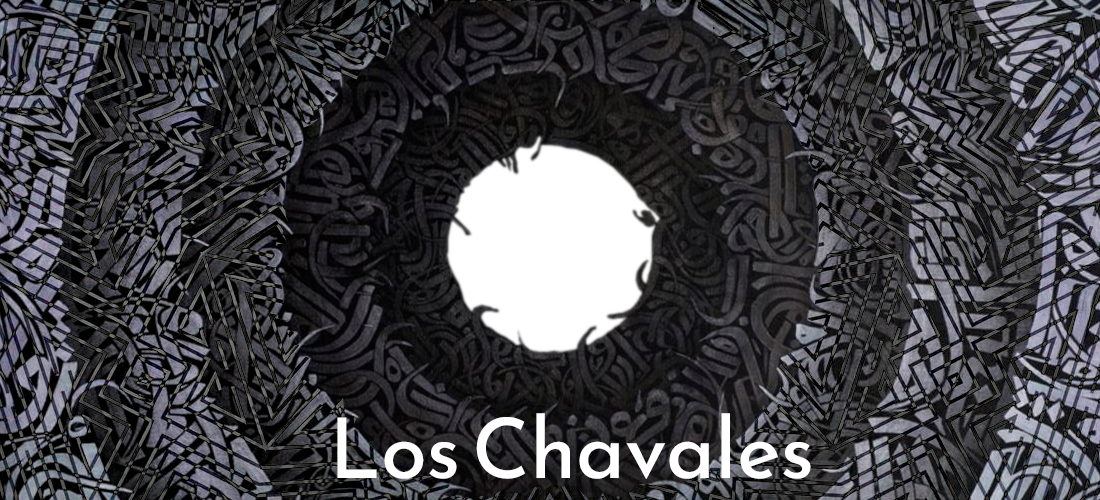
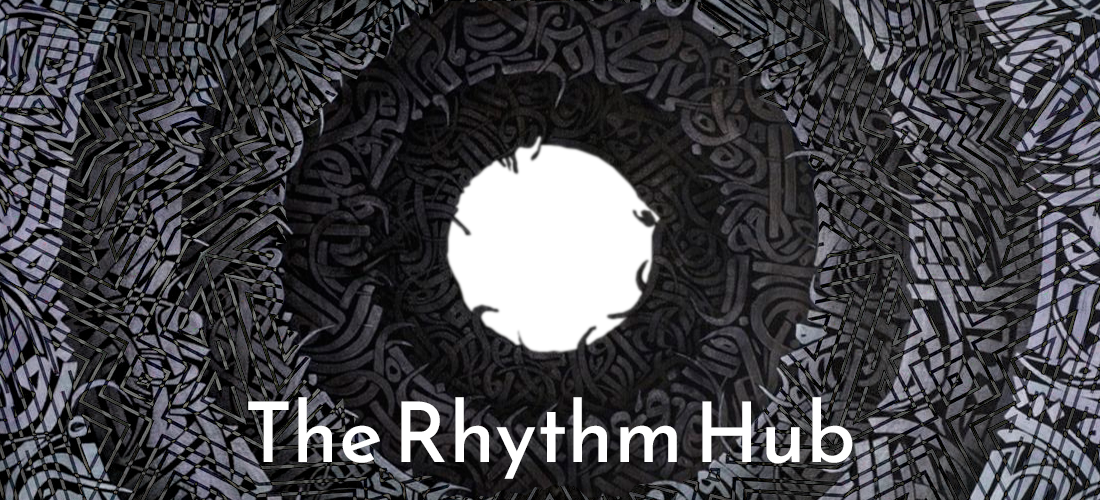
Changed every name of every file to TRH and added more constants

Changed region(s): [[0.2164, 0.78, 0.7727, 0.96]]

diff --git a/TRHDuroCommands.py b/TRHDuroCommands.py
@@ -1,5 +1,6 @@
 from discord.app_commands import CommandTree
 from discord import Interaction, Attachment, File
+import constants as c
 import os
 import random
 
@@ -14,20 +15,18 @@ class LCDuroCommands(CommandTree):
 
         @self.command(name="durosave")
         async def durosave(interaction: Interaction, imagen: Attachment):
-            path = os.path.join("images", "duro_images")
-            if not os.path.exists(path):
-                os.mkdir(path)
+            if not os.path.exists(c.DURO_IMG_PATH):
+                os.mkdir(c.DURO_IMG_PATH)
 
-            await imagen.save(os.path.join(path, imagen.filename))
+            await imagen.save(os.path.join(c.DURO_IMG_PATH, imagen.filename))
             await interaction.response.send_message("Imagen dura guardada.", ephemeral=True)
 
         @self.command(name="gatosave")
         async def gatosave(interaction: Interaction, imagen: Attachment):
-            path = os.path.join("images", "gato_images")
-            if not os.path.exists(path):
-                os.mkdir(path)
+            if not os.path.exists(c.GATO_IMG_PATH):
+                os.mkdir(c.GATO_IMG_PATH)
 
-            await imagen.save(os.path.join(path, imagen.filename))
+            await imagen.save(os.path.join(c.GATO_IMG_PATH, imagen.filename))
             await interaction.response.send_message("Imagen MEOW guardada.", ephemeral=True)
 
         @self.command(name="duro")
@@ -50,10 +49,9 @@ class LCDuroCommands(CommandTree):
 
         @self.command(name="borzoisave")
         async def borzoisave(interaction: Interaction, imagen: Attachment):
-            path = os.path.join("images", "borzoi_images")
-            if not os.path.exists(path):
-                os.mkdir(path)
-            await imagen.save(path, imagen.filename)
+            if not os.path.exists(c.BORZOI_IMG_PATH):
+                os.mkdir(c.BORZOI_IMG_PATH)
+            await imagen.save(c.BORZOI_IMG_PATH, imagen.filename)
             await interaction.response.send_message("Imagen de borzoi guardada.", ephemeral=True)
 
         @self.command(name="borzoi")
@@ -67,10 +65,9 @@ class LCDuroCommands(CommandTree):
 
         @self.command(name="lmaosave")
         async def lmaosave(interaction: Interaction, imagen: Attachment):
-            path = os.path.join("images", "lmao_images")
-            if not os.path.exists(path):
-                os.mkdir(path)
-            await imagen.save(path, imagen.filename)
+            if not os.path.exists(c.LMAO_IMG_PATH):
+                os.mkdir(c.LMAO_IMG_PATH)
+            await imagen.save(c.LMAO_IMG_PATH, imagen.filename)
             await interaction.response.send_message("Imagen de lmao guardada.", ephemeral=True)
 
         @self.command(name="lmao")
@@ -82,9 +79,8 @@ class LCDuroCommands(CommandTree):
             picture = self.cargar_lmao_images(images)
             await interaction.response.send_message(file=picture)
 
-    def obtener_imagenes(self, image_type):
-        path = os.path.join("images", image_type + "_images")
-        images = os.listdir(path)
+    def obtener_imagenes(self, image_path):
+        images = os.listdir(image_path)
         images = [image for image in images if image not in self.duro_images]
         return images
 

diff --git a/TRHBot.py b/TRHBot.py
@@ -3,8 +3,8 @@ import discord
 from card_image_logic import create_welcome_card
 from io import BytesIO
 import wavelink
-from LCMusicEvents import LCMusicEvents
-from LCCommands import LCCommands
+from TRHMusicEvents import LCMusicEvents
+from TRH import LCCommands
 
 
 class LCBot(LCMusicEvents, discord.Client):
@@ -17,7 +17,7 @@ class LCBot(LCMusicEvents, discord.Client):
         try:
             self.logger.info("Starting lavalink...")
             await self.start_lavalink()
-            node: wavelink.Node = wavelink.Node(uri="http://localhost:2333", password="youshallnotpass")
+            node: wavelink.Node = wavelink.Node(uri=c.WAVELINK_URI, password=c.WAVELINK_PASS)
             await wavelink.NodePool.connect(client=self, nodes=[node])
             self.logger.info("Syncing commands...")
             tree = LCCommands(self)
@@ -36,7 +36,7 @@ class LCBot(LCMusicEvents, discord.Client):
         card = create_welcome_card(user, avatar_data)
 
         file = discord.File(card, filename="welcome_card.png")
-        msg = f"Hello {member} welcome to Los Chavales!\n\nHola {member} bienvenido a Los Chavales!"
+        msg = f"Hello {member} welcome to {c.SERVER_NAME}\n\nHola {member} bienvenido a {c.SERVER_NAME}!"
 
         await channel.send(msg, file=file)
 

diff --git a/discord_embeds.py b/discord_embeds.py
@@ -10,8 +10,8 @@ def help_embed(choice):
     elif choice == "music":
         description = ("**MUSIC COMMANDS**\n"
                        "**/queue** - _Shows the current queue._\n"
-                       "**/bump** - _Bumps a song to the top of the queue._\n"
-                       "**/play** - _Plays a song._\n"
+                       "**/bump** - _Bumps a song to the top of the queue (currently unsupported)_\n"
+                       "**/play** - _Plays a song. (spotify playlist currently unsupported)_\n"
                        "**/skip** - _Skips the current song._\n"
                        "**/stop** - _Stops playback._\n"
                        "**/connect** - _Connects to a voicechat._\n"

diff --git a/constants.py b/constants.py
@@ -12,3 +12,10 @@ WELCOME_CHANNEL_ID = 1113466074797703198
 YOUTUBE_CHANNEL_ID = "UCvH7CJqcP5mW411eAE8KqZQ"
 # YOUTUBE_FEED_CHANNEL_ID = 1121936232247742556
 YOUTUBE_FEED_CHANNEL_ID = 851840942675722303
+WAVELINK_URI = os.getenv("WAVELINK_URI")
+WAVELINK_PASS = os.getenv("WAVELINK_PASS")
+SERVER_NAME = "The Rhythm Hub"
+DURO_IMG_PATH = os.path.join("images", "duro_images")
+GATO_IMG_PATH = os.path.join("images", "gato_images")
+BORZOI_IMG_PATH = os.path.join("images", "borzoi_images")
+LMAO_IMG_PATH = os.path.join("images", "lmao_images")

diff --git a/TRH.py b/TRH.py
@@ -1,6 +1,6 @@
 from discord.app_commands import CommandTree
-from LCMusicCommands import LCMusicCommands
-from LCDuroCommands import LCDuroCommands
+from TRHMusicCommands import LCMusicCommands
+from TRHDuroCommands import LCDuroCommands
 from discord.app_commands import checks
 from youtube_upload_detection import SearchForNewVideo
 from googleapiclient.errors import HttpError

diff --git a/main.py b/main.py
@@ -1,5 +1,5 @@
 import discord
-from LCBot import LCBot
+from TRHBot import LCBot
 import logging
 from logging.handlers import RotatingFileHandler
 import colorlog
